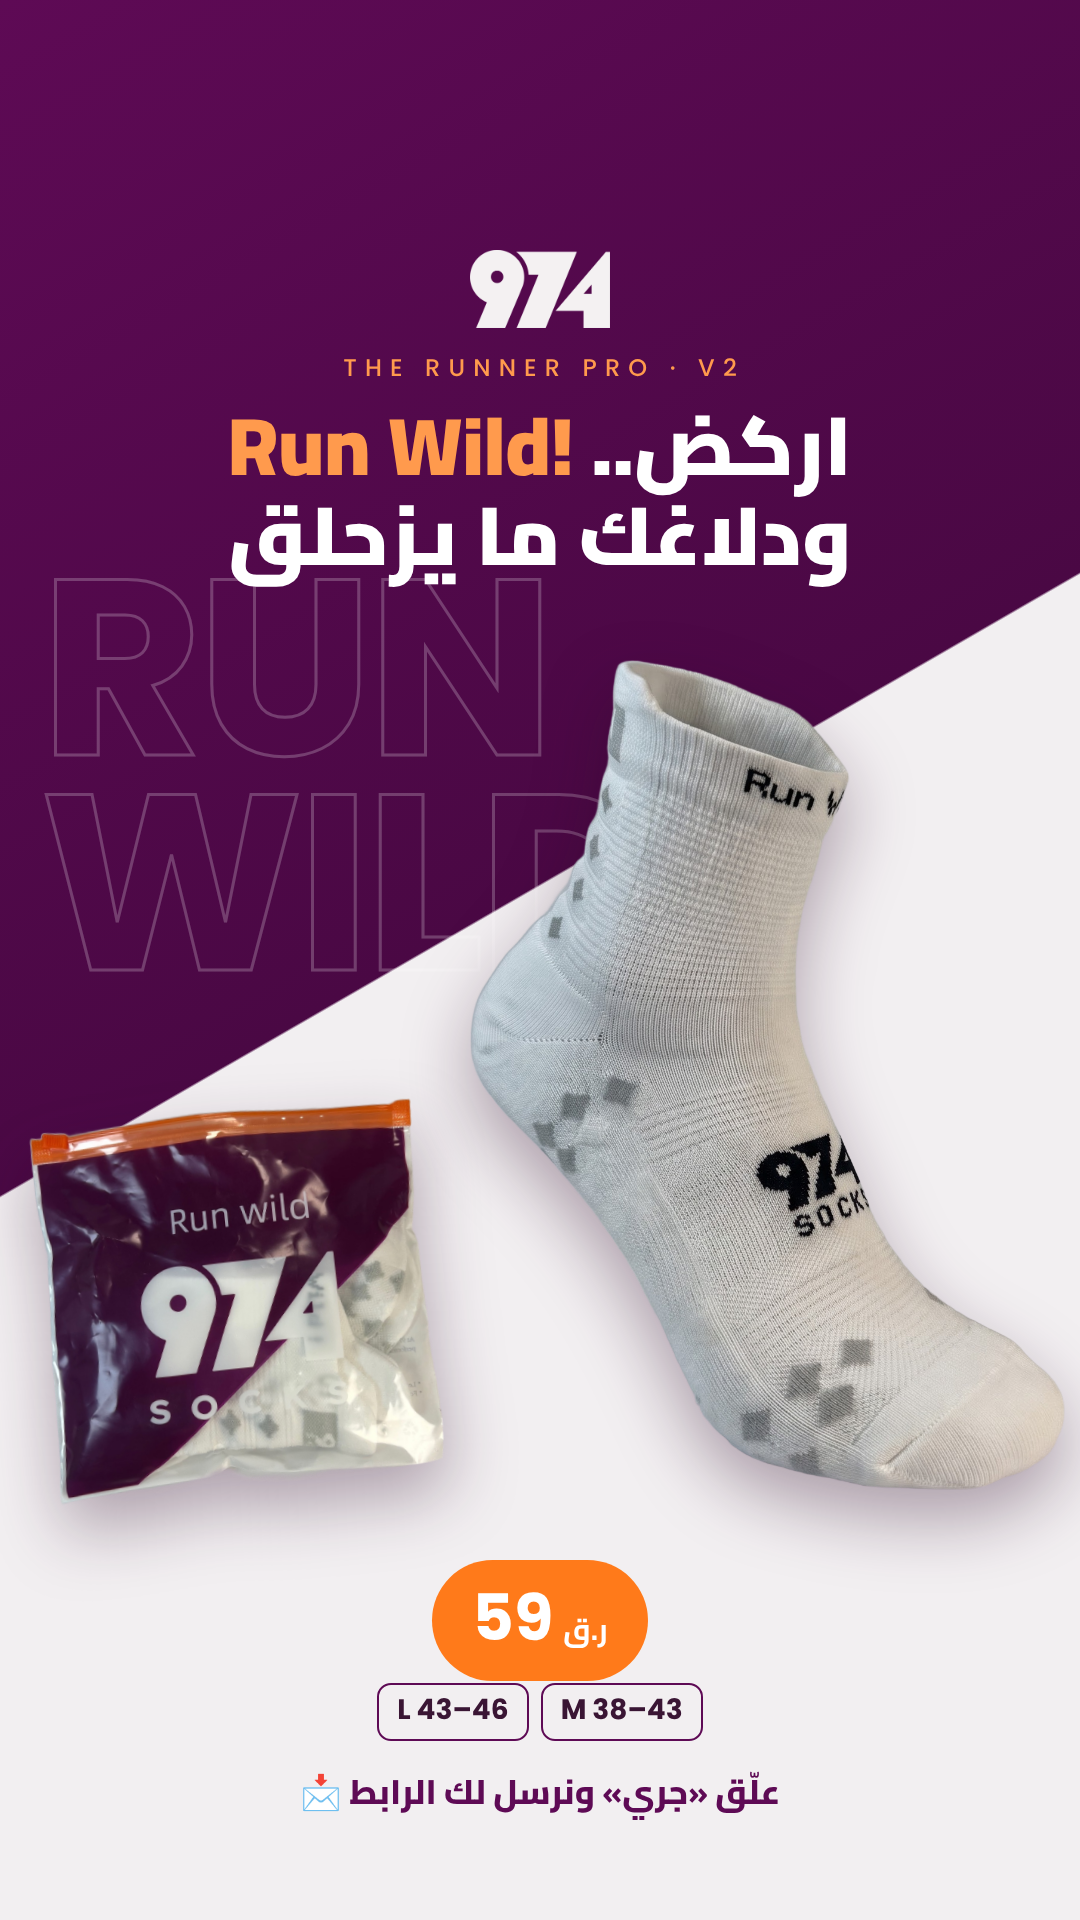
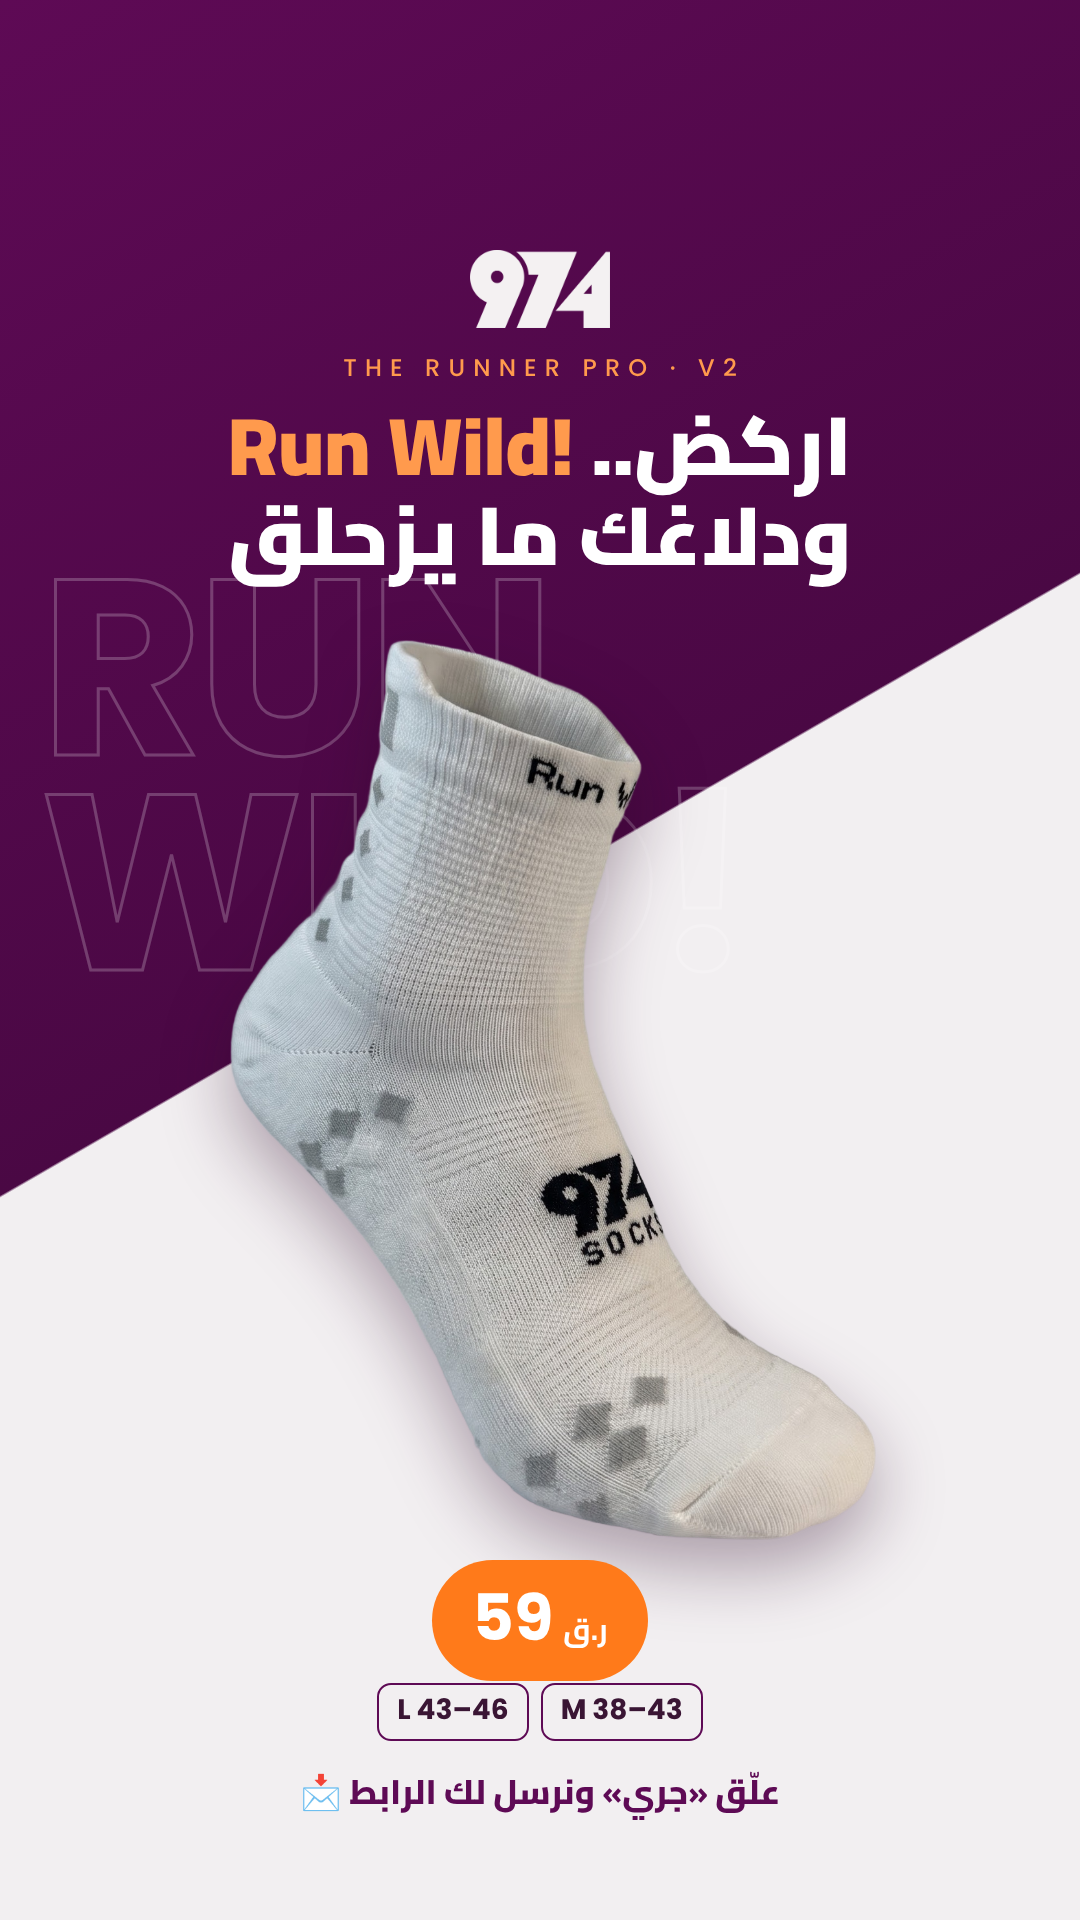
Runner V2 story: remove bag
Claude-Session: https://claude.ai/code/session_01K6HDWNrArsGSJekW1VcEzV

Changed region(s): [[0.0, 0.3125, 1.0, 0.8438]]

diff --git a/posts/2026-11/runner-v2/src/story.html b/posts/2026-11/runner-v2/src/story.html
@@ -29,8 +29,8 @@ body{width:1080px;overflow:hidden;position:relative;background:#F2EFF1;font-fami
 <img class="abs" src="mark-w.png" style="left:50%;transform:translateX(-50%);top:250px;width:140px">
 <div class="abs kick" style="left:0;right:0;text-align:center;top:350px;padding-left:.34em">THE RUNNER PRO · V2</div>
 <div class="abs h" style="left:0;right:0;top:400px;text-align:center">اركض.. <b><bdi dir="ltr">Run Wild!</bdi></b><br>ودلاغك ما يزحلق</div>
-<img class="abs sh" src="cut/sideR.png" style="left:470px;top:660px;height:830px">
-<img class="abs sh" src="cut/bag.png" style="left:40px;top:1110px;width:390px;transform:rotate(-6deg)">
+<img class="abs sh" src="cut/sideR.png" style="left:230px;top:640px;height:900px">
+
 <div class="abs" style="left:0;right:0;top:1560px;text-align:center"><div class="pill">59 <i>ر.ق</i></div></div>
 <div class="abs sz" style="left:0;right:0;top:1680px;text-align:center"><span>M 38–43</span><span>L 43–46</span></div>
 <div class="abs cta" style="left:0;right:0;top:1760px;text-align:center">علّق «جري» ونرسل لك الرابط 📩</div>
